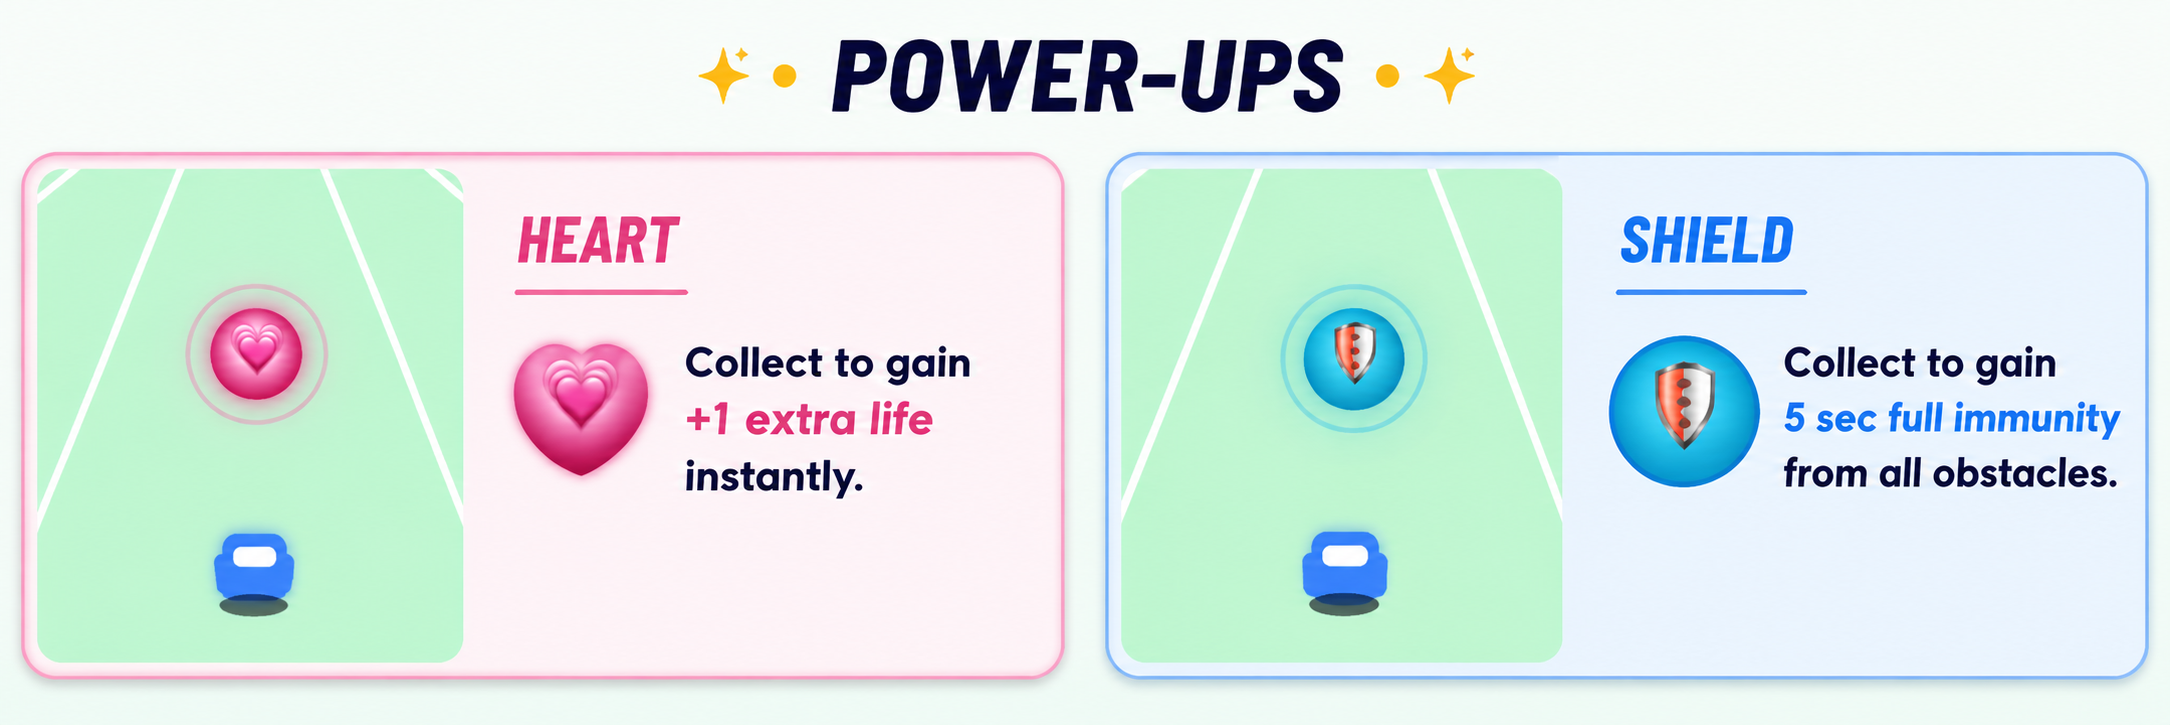
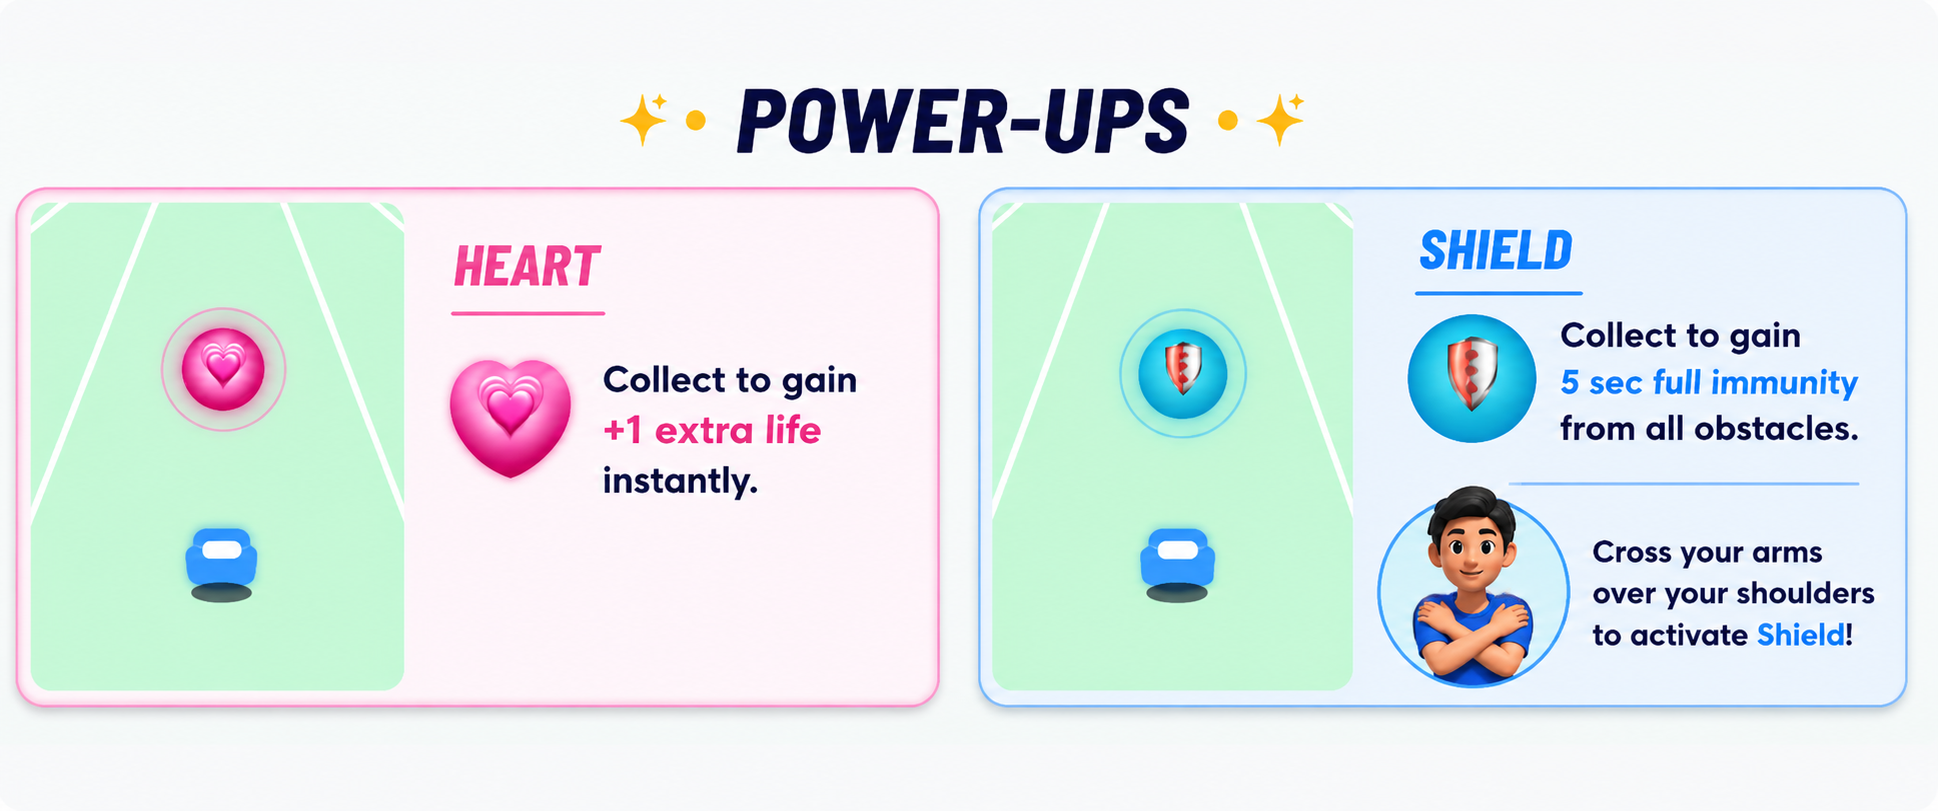
Add skip tutorial button and refine instruction UX.
Place a prominent indigo skip control in the header, remove tap-to-continue copy, and enlarge page navigation for clearer elderly-friendly onboarding.

Changed region(s): [[0.0, 0.0303, 1.0, 0.971], [0.3096, 0.6372, 0.4025, 0.6979]]

diff --git a/index.html b/index.html
@@ -213,7 +213,10 @@
             <!-- How to play (5 steps) -->
             <div id="instructions-screen" class="hidden fixed inset-0 z-40 flex flex-col items-center justify-center bg-slate-100/95 dark:bg-[#1a202c]/95 backdrop-blur-md text-gray-900 dark:text-white pointer-events-auto overflow-y-auto p-4 md:p-6">
                 <div class="w-full max-w-5xl bg-white/95 dark:bg-gray-900/95 rounded-3xl border-4 border-indigo-500/40 shadow-2xl backdrop-blur-md flex flex-col max-h-[95vh]">
-                <header class="text-center pt-6 md:pt-8 pb-4 px-6 shrink-0 border-b-2 border-gray-200 dark:border-gray-700">
+                <header class="text-center pt-6 md:pt-8 pb-4 px-6 pr-28 md:pr-36 shrink-0 border-b-2 border-gray-200 dark:border-gray-700 relative">
+                    <button type="button" id="instruction-skip" class="absolute top-4 right-4 md:top-6 md:right-6 z-10 bg-indigo-600 hover:bg-indigo-500 text-white font-black py-3 px-4 md:py-3 md:px-5 rounded-xl shadow-lg text-base md:text-lg transition whitespace-nowrap">
+                        Skip tutorial
+                    </button>
                     <h1 id="txt-instruction-screen-title" class="text-3xl md:text-5xl font-black tracking-tight text-gray-900 dark:text-white">Active Runner - How to play</h1>
                     <p id="txt-how-to-play" class="text-xl md:text-2xl text-indigo-600 dark:text-indigo-400 font-bold mt-2">Use your body movement to dodge obstacles!</p>
                 </header>
@@ -227,16 +230,15 @@
                                     <img id="instruction-image" src="" alt="" class="max-w-full max-h-full w-full h-full object-contain hidden" />
                                 </div>
                             </div>
-                            <p id="txt-tap-continue" class="text-center text-sm md:text-base font-bold text-indigo-700 dark:text-indigo-300 bg-indigo-50 dark:bg-indigo-950/50 py-3 border-t border-indigo-200 dark:border-indigo-800">Tap anywhere to continue</p>
                         </div>
                     </button>
                 </div>
 
                 <footer class="shrink-0 px-4 md:px-6 pb-6 pt-2">
-                    <div class="flex items-center justify-between gap-4 bg-gray-50 dark:bg-gray-800 rounded-2xl px-4 py-4 border-2 border-gray-200 dark:border-gray-700">
-                        <button type="button" id="instruction-prev" class="w-14 h-14 md:w-16 md:h-16 rounded-full bg-indigo-600 hover:bg-indigo-500 text-white text-2xl font-black shadow-lg transition disabled:opacity-30 disabled:pointer-events-none" aria-label="Previous">←</button>
+                    <div class="flex items-center justify-between gap-4 bg-gray-50 dark:bg-gray-800 rounded-2xl px-4 py-3 md:py-4 border-2 border-gray-200 dark:border-gray-700">
+                        <button type="button" id="instruction-prev" class="w-16 h-16 md:w-20 md:h-20 rounded-full bg-indigo-600 hover:bg-indigo-500 text-white text-3xl font-black shadow-lg transition disabled:opacity-30 disabled:pointer-events-none" aria-label="Previous">←</button>
                         <p id="instruction-page" class="text-xl md:text-2xl font-black tabular-nums text-gray-800 dark:text-gray-200"><span id="instruction-page-current" class="inline-block min-w-[2ch] text-center px-3 py-1 rounded-full bg-indigo-600 text-white">1</span> / <span id="instruction-page-total">5</span></p>
-                        <button type="button" id="instruction-next" class="w-14 h-14 md:w-16 md:h-16 rounded-full bg-indigo-600 hover:bg-indigo-500 text-white text-2xl font-black shadow-lg transition" aria-label="Next">→</button>
+                        <button type="button" id="instruction-next" class="w-16 h-16 md:w-20 md:h-20 rounded-full bg-indigo-600 hover:bg-indigo-500 text-white text-3xl font-black shadow-lg transition" aria-label="Next">→</button>
                     </div>
                 </footer>
                 </div>
@@ -328,8 +330,7 @@ const translations = {
         warningBtn: "I understand",
         instructionScreenTitle: "Active Runner - How to play",
         howToPlay: "Use your body movement to dodge obstacles!",
-        tapToContinue: "Tap anywhere to continue",
-        tapToStart: "Tap to start calibration",
+        instructionSkip: "Skip tutorial",
         instructionSlides: [
             { media: "left.mp4", mediaType: "video", accent: "blue" },
             { media: "right.mp4", mediaType: "video", accent: "blue" },
@@ -357,8 +358,7 @@ const translations = {
         warningBtn: "Kua mārama ahau",
         instructionScreenTitle: "Active Runner-How to play",
         howToPlay: "Use your body movement to dodge obstacles!",
-        tapToContinue: "Pāwhiri kia haere tonu",
-        tapToStart: "Pāwhiri kia tīmata te whakatau",
+        instructionSkip: "Peke i te aratohu",
         instructionSlides: [
             { media: "left.mp4", mediaType: "video", accent: "blue" },
             { media: "right.mp4", mediaType: "video", accent: "blue" },
@@ -386,6 +386,7 @@ const elementsToTranslate = {
     'txt-warning-2': 'warning2', 'txt-warning-3': 'warning3', 'warning-continue-btn': 'warningBtn',
     'txt-instruction-screen-title': 'instructionScreenTitle',
     'txt-how-to-play': 'howToPlay',
+    'instruction-skip': 'instructionSkip',
     'txt-ready': 'ready', 'txt-ready-sub': 'readySub', 'start-btn': 'startCalBtn',
     'txt-stand-still': 'standStill', 'txt-learning': 'learning',
     'txt-game-over': 'gameOver', 'txt-final-score': 'finalScore',
@@ -523,8 +524,6 @@ function renderInstructionSlide() {
         img.classList.remove('hidden');
     }
 
-    const isLast = instructionStep === slides.length - 1;
-    document.getElementById('txt-tap-continue').textContent = isLast ? dict.tapToStart : dict.tapToContinue;
     document.getElementById('instruction-prev').disabled = instructionStep === 0;
 }
 
@@ -536,15 +535,25 @@ function showInstructionsScreen() {
     renderInstructionSlide();
 }
 
+function finishInstructions() {
+    const video = document.getElementById('instruction-video');
+    video.pause();
+    document.getElementById('instructions-screen').classList.add('hidden');
+    document.getElementById('start-screen').classList.remove('hidden');
+}
+
 function advanceInstruction() {
     const slides = getInstructionSlides();
     if (instructionStep < slides.length - 1) {
         instructionStep++;
         renderInstructionSlide();
     } else {
-        document.getElementById('instructions-screen').classList.add('hidden');
-        document.getElementById('start-screen').classList.remove('hidden');
+        finishInstructions();
     }
+}
+
+function skipInstructions() {
+    finishInstructions();
 }
 
 function goBackInstruction() {
@@ -799,6 +808,7 @@ document.getElementById('warning-continue-btn').addEventListener('click', () => 
 document.getElementById('instruction-advance').addEventListener('click', advanceInstruction);
 document.getElementById('instruction-next').addEventListener('click', (e) => { e.stopPropagation(); advanceInstruction(); });
 document.getElementById('instruction-prev').addEventListener('click', (e) => { e.stopPropagation(); goBackInstruction(); });
+document.getElementById('instruction-skip').addEventListener('click', (e) => { e.stopPropagation(); skipInstructions(); });
 
 document.getElementById('start-btn').addEventListener('click', () => {
     audioCtx.resume();
